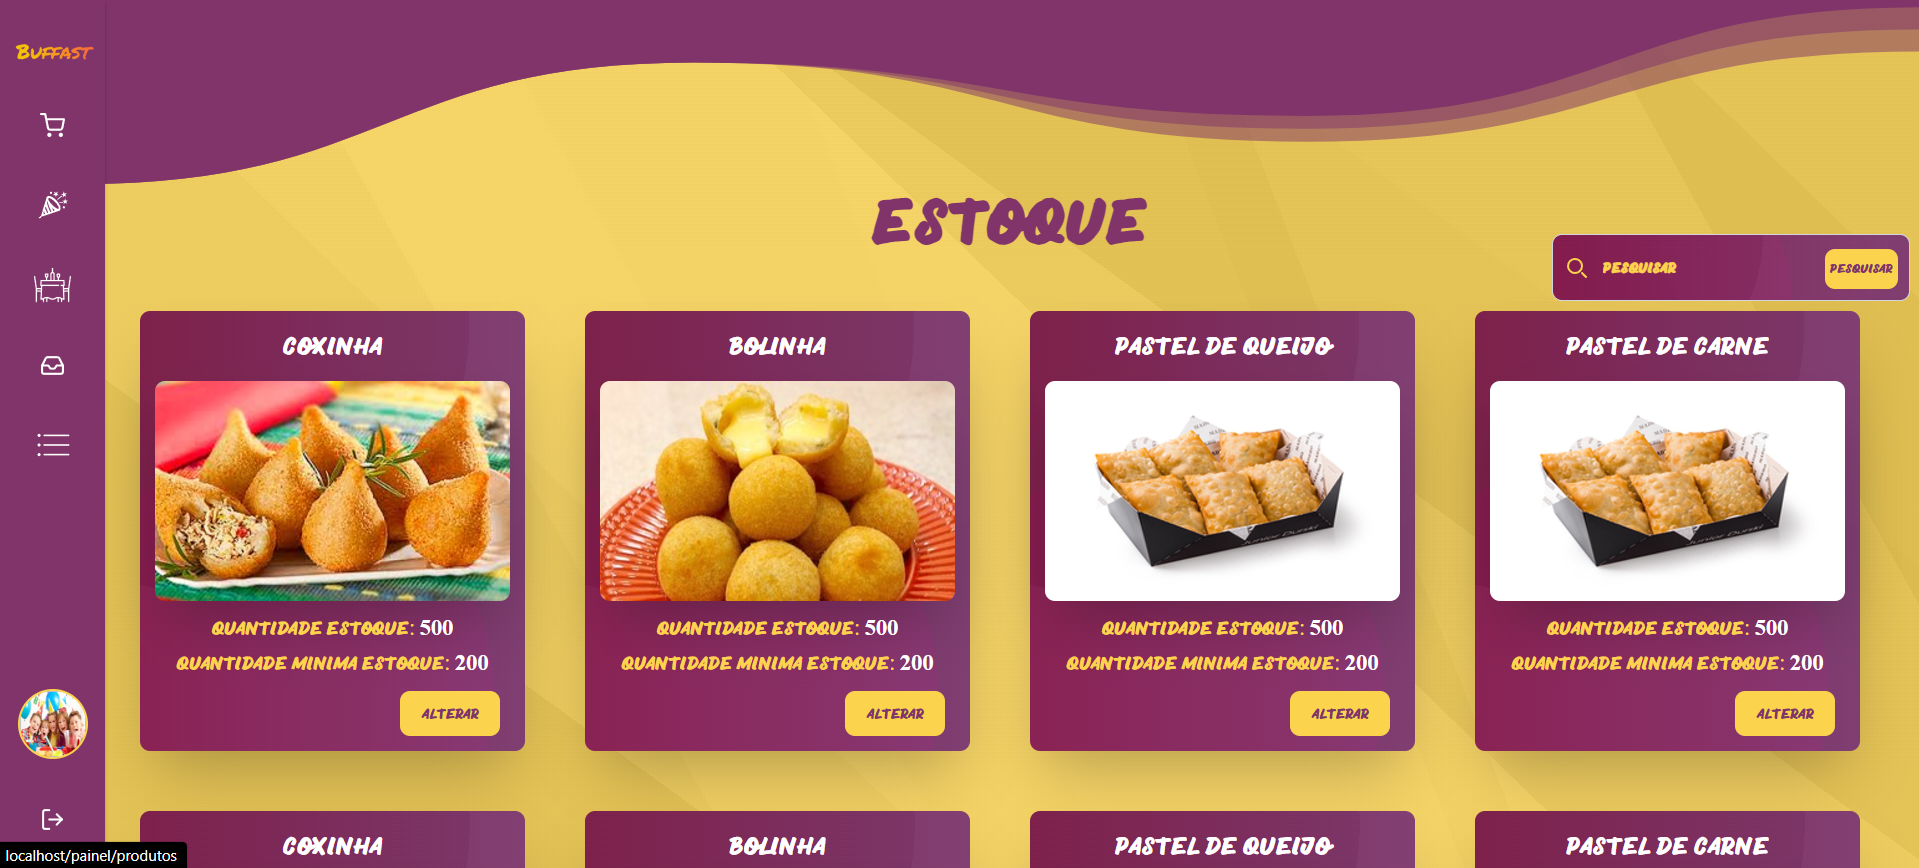
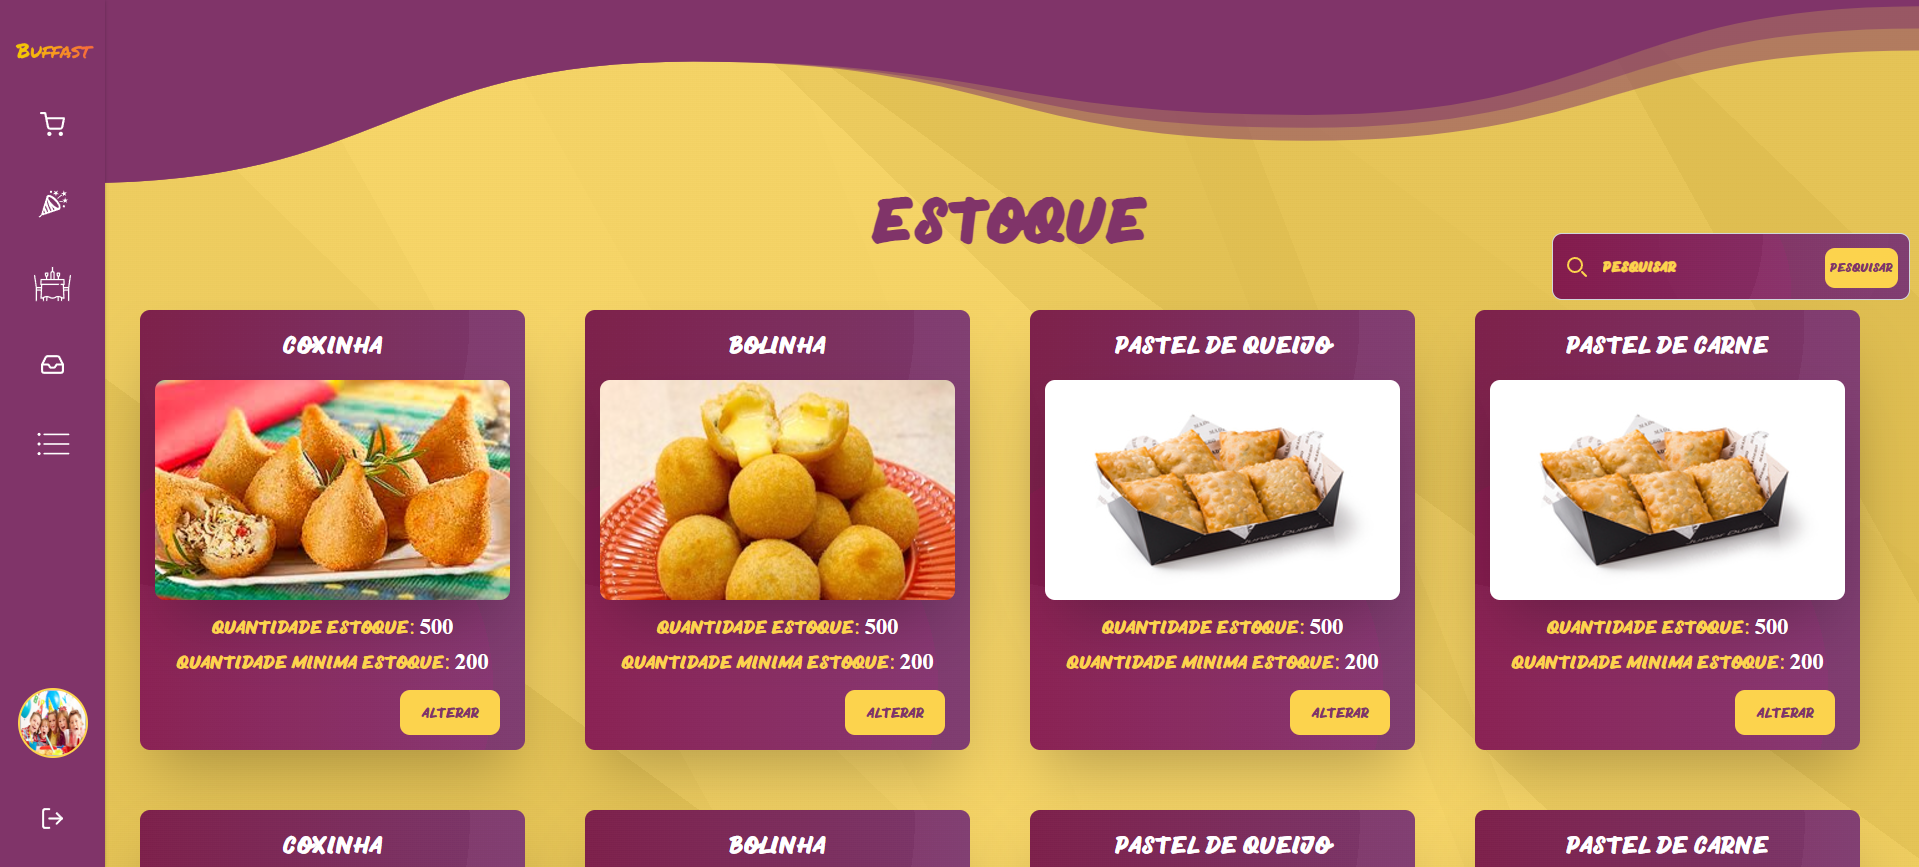
Criação do caminho perfil e alterações na landing page

diff --git a/public/assets/css/style.css b/public/assets/css/style.css
@@ -248,6 +248,7 @@ input[type="number"] {
 
 .border-card{
 	border-color: #803469;
+	border-width: 4px;
 }
 
 .center {
@@ -363,3 +364,11 @@ input[type="number"] {
 		),
 		linear-gradient(92deg, rgb(252, 211, 77), rgb(252, 211, 77));
 }
+
+.zoom{
+	transition: transform 0.5s ease;
+}
+.zoom:hover {
+	transform: scale(1.06);
+}
+

diff --git a/App/Views/landing.php b/App/Views/landing.php
@@ -70,7 +70,7 @@
           </div>
         </header>
         <div class="grid grid-cols-3 gap-4 p-10">
-          <div class="border-card rounded-2xl border-4">
+          <div class="border-card rounded-2xl border-4 zoom">
             <header class="bg-amber-300 rounded-2xl p-2">
               <p class="text-xl">Produtos</p>
             </header>
@@ -78,7 +78,7 @@
               <img src="/assets/images/produtos.png" class="h-44 lg:h-56 rounded-b-xl justify-self-center">
             </div>
           </div>
-          <div class="border-card rounded-2xl border-4">
+          <div class="border-card rounded-2xl border-4 zoom">
             <header class="bg-amber-300 rounded-2xl p-2">
               <p class="text-xl">Festas</p>
             </header>
@@ -86,7 +86,7 @@
               <img src="/assets/images/festas.png" class="h-44 lg:h-56 rounded-b-xl justify-self-center">
             </div>
           </div>
-          <div class="border-card rounded-2xl border-4">
+          <div class="border-card rounded-2xl border-4 zoom">
             <header class="bg-amber-300 rounded-2xl p-2">
               <p class="text-xl">Mesas</p>
             </header>
@@ -94,7 +94,7 @@
               <img src="/assets/images/mesas.png" class="h-44 lg:h-56 rounded-b-xl justify-self-center">
             </div>
           </div>
-          <div class="border-card rounded-2xl border-4">
+          <div class="border-card rounded-2xl border-4 zoom">
             <header class="bg-amber-300 rounded-2xl p-2">
               <p class="text-xl">Estoque</p>
             </header>
@@ -102,7 +102,7 @@
               <img src="/assets/images/estoque.png" class="h-44 lg:h-56 rounded-b-xl justify-self-center">
             </div>
           </div>
-          <div class="border-card rounded-2xl border-4">
+          <div class="border-card rounded-2xl border-4 zoom">
             <header class="bg-amber-300 rounded-2xl p-2">
               <p class="text-xl">Pedidos</p>
             </header>
@@ -110,7 +110,7 @@
               <img src="/assets/images/pedidos.png" class="h-44 lg:h-56 rounded-b-xl justify-self-center">
             </div>
           </div>
-          <div class="border-card rounded-2xl border-4">
+          <div class="border-card rounded-2xl border-4 zoom">
             <header class="bg-amber-300 rounded-2xl p-2">
               <p class="text-xl">Perfil</p>
             </header>

diff --git a/App/Views/registro.php b/App/Views/registro.php
@@ -47,14 +47,14 @@
                 <label for="email" class="mb-3 block text-base text-white">
                     Email
                 </label>
-                <input type="text" name="email"  autofocus autocomplete required
+                <input type="email" name="email"  autofocus autocomplete required
                     class="w-full py-2 px-6 rounded-lg bg-amber-300 border placeholder-black focus:border-blue-500 focus:bg-amber-200 focus:outline-none" />
             </div>
             <div class="mb-3">
                 <label for="senha" class="mb-3 block text-base text-white">
                     Senha
                 </label>
-                <input type="text" name="senha"  autofocus autocomplete required
+                <input type="password" name="senha"  autofocus autocomplete required
                     class="w-full py-2 px-6 rounded-lg bg-amber-300 border placeholder-black focus:border-blue-500 focus:bg-amber-200 focus:outline-none" />
             </div>
             <?php

diff --git a/App/Views/valideEmail.php b/App/Views/valideEmail.php
@@ -12,7 +12,7 @@
 <body>
   <div class="center bg-landing h-screen w-screen text-center place-content-center main-font">
     <p class="text-amber-300 text-5xl">Foi enviado um email para verificacao da sua conta</p>
-    <p class="text-amber-300 text-5xl">Não recebeu? <a href="/reenviar-email">Reenviar</a></p>
+    <p class="text-amber-300 text-5xl">Nao recebeu? <a href="/reenviar-email" class="border-b-2 border-amber-300">Reenviar</a></p>
     <a href="/" class="text-white border-b-2 border-white text-3xl">Sair</a>
   </div>
 </body>

diff --git a/App/Views/Admin/side-bar.php b/App/Views/Admin/side-bar.php
@@ -97,7 +97,7 @@
 		</ul>
 
 		<div class="mt-auto h-16 flex items-center justify-center w-full">
-			<img class="session bg-white border-2 border-amber-300 rounded-full h-14 w-14" src="<?= $_SESSION['url_pfp'] ?>">
+			<a href="/painel/perfil"><img class="session bg-white border-2 border-amber-300 rounded-full h-14 w-14" src="<?= $_SESSION['url_pfp'] ?>"></a>
 		</div>
 			<button
 				class="h-16 w-10 mb-2 mx-auto flex flex justify-center items-center

diff --git a/App/Controllers/AdminController.php b/App/Controllers/AdminController.php
@@ -100,6 +100,11 @@ class AdminController extends Controller {
         $this->render('pedidos', 'AdminLayout', 'Admin');
     }
 
+    public function Perfil() {
+        $this->ValidateAccount();
+        $this->render('perfil', 'AdminLayout', 'Admin');
+    }
+
     private function ValidateAccount() {
         if (!isset($_SESSION['cd_buffet'])) {
             header('Location: /login');

diff --git a/App/Router.php b/App/Router.php
@@ -121,6 +121,13 @@ abstract class Router {
             'method' => ['GET']
         ];
 
+        $routes['painel perfil'] = [
+            'router' => '/painel/perfil',
+            'controller' =>'AdminController',
+            'action' => 'Perfil',
+            'method' => ['GET']
+        ];
+
         $this->routes = array_merge($this->routes, $routes);
     }
 }

diff --git a/App/Views/Admin/perfil.php b/App/Views/Admin/perfil.php
@@ -1,0 +1,1 @@
+q
